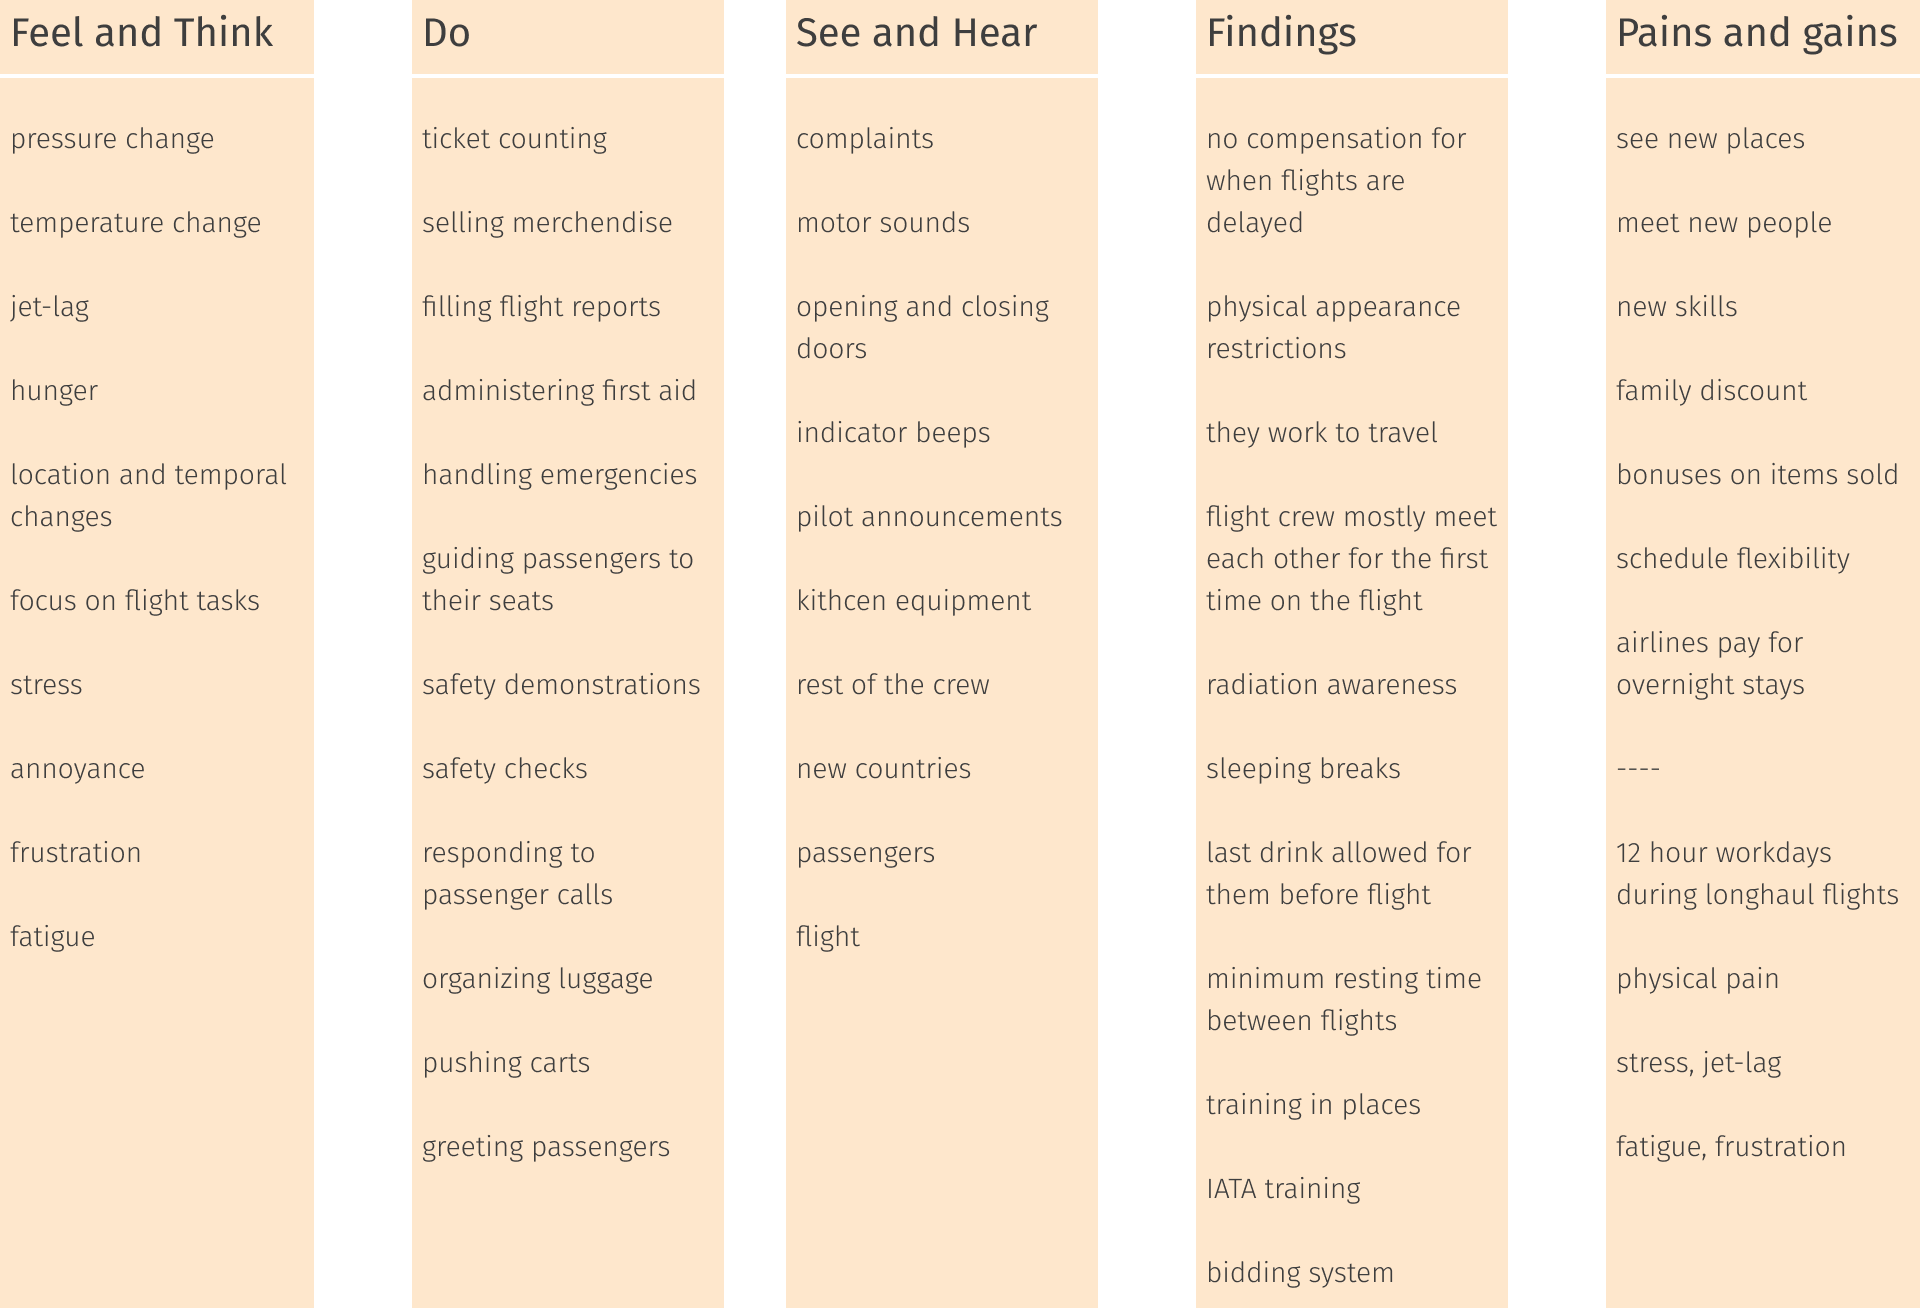
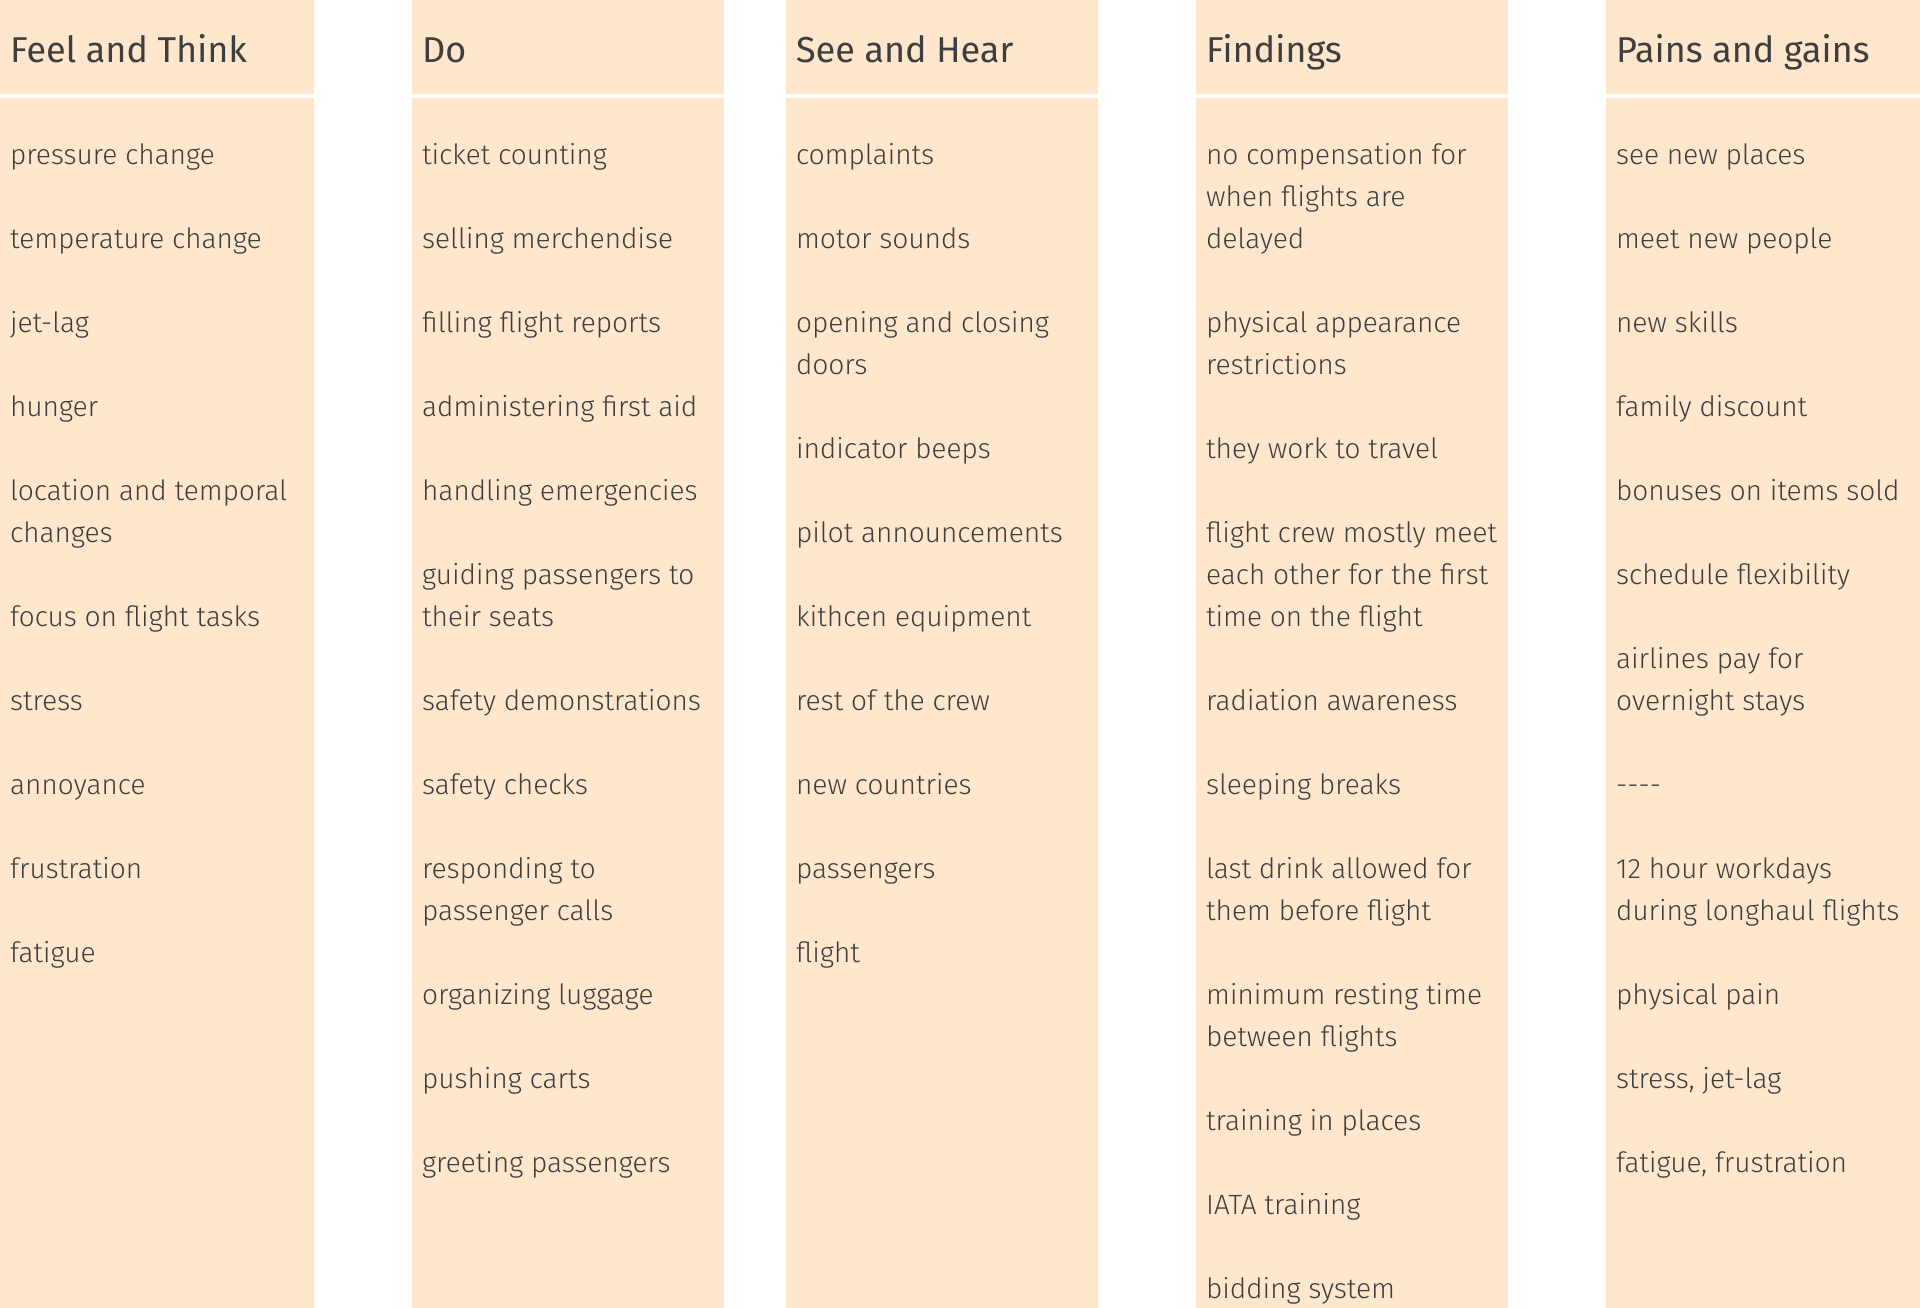
Add files via upload

diff --git a/index.html b/index.html
@@ -156,24 +156,63 @@
 				<div class="body-title">AFFINITY<br>MAPPING</div>
 				<div class="body-content">
 					<div class="body-text">To have a holistic understanding of the air crew's routine, we started by writitng and <span class="bold-text">mapping every aspect of experience</span> related to their work, based on secondary research</div>
-					<img src="assets/icrew/affinity.png" style="width: inherit; margin-top: 40px;">
+					<img src="assets/icrew/affinity.png" style="width: inherit; margin-top: 80px;">
 				</div>
 			</div>
 
-			<!---SOLUTION-->
+			<!-- Interviews -->
 			<div class="body">
 				<div class="body-title">INTERVIEWS</div>
 				<div class="body-content">
 					<div class="body-text">We conducted a few interviews with pilots and flight attendants to both validate our secondary research and to gain new informationa and insights</div>
-					<div class="body-text-2"></div>
+					<div class="column-2"><span style="font-weight: 600; font-size: 17px;">Pilot</span><br><br> - Pilots sleep during long overhaul flights<br> - Last drink policy 12h before flight<br> - Pilots/cabin crew use a “bidding system” to decide what flights they get. Bid with priority, and seniority means better flights. Every airline has a different bidding system<br> - Fatigue is a big issue<br> - Cabin crew are unlicensed, so they don’t have legal responsibilities<br> - Pilots and especially cabin crew have specific appearance/makeup codes</div>
+					<div class="column-2" style="float: right;"><span style="font-weight: 600; font-size: 17px;">Flight Assistant</span><br><br> - 24h layovers<br> - Resting time<br> - Not a lot of “free” time<br> - System for bidding<br> - Health issues related to stress<br> - Pilots and flight attendants have different rules<br> - Looking for recommendations<br> - No apps known for flight attendant</div>
+
 				</div>
 			</div>
 
+			<!-- User Journey -->
+			<div class="body">
+				<div class="body-title">USER JOURNEY</div>
+				<div class="body-content">
+					<div class="body-text">To build empathy with our users, we worked with them to understand and map out the moods and emotions they go through doing the tasks assigned to them during a flight</div>
+				</div>
+				<img src="assets/icrew/journey.png" style="width: inherit; margin-top: 60px;">
+			</div>
 
+			<!-- Pain Points -->
+			<div class="body">
+				<div class="body-title">PAIN POINTS</div>
+				<div class="body-content">
+					<div class="body-text">We listed all the pain points and categorized them based on how actionable and pressing the pain points were<br><br><span class="bold-text">To solve</span> - luggage organisation, breaks - do not disturb, serving special meals, crew requests, pilot communications<br><br><span class="bold-text">Solvable</span> - amenity kits, passenger requests, call bell<br><br><span style="opacity: 0.5; text-decoration-style: line-through;"><s><span class="bold-text">Not solvable</span> - cleaning toilets, locating seats, passenger conflicts, boarding mix-ups </span></s></div>
+				</div>
+			</div>
+
+			<!-- Final Concept -->
+			<div class="body">
+				<div class="body-title">FINAL CONCEPT</div>
+				<div class="body-content">
+					<div class="body-text"><span class="bold-text" style="font-size: 20px">Design a smartwatch application powered by data from a flight, to aid cabin crew members to serve passengers in the best way possible</span></div>
+				</div>
+			</div>
 		</div>
 
-		<div class="img-full"><img src="assets/icrew/branding.jpg"></div>
-		<!--<div class="footer">	
+		<!-- Section 4: Design -->
+		<div class="section" id="section4">
+			<div class="section-head">Design</div>
+
+			<!-- Information Architecture -->
+			<div class="body">
+				<div class="body-title">INFORMATION<br>ARCHITECTURE</div>
+				<div class="body-content">
+					<div class="body-text">This project was built as a part of an Application Design course, the brief of which was to design a travel application. After an initial brainstorming session about <span class="bold-text">technologies, contexts, users and problems</span>, we found an <span class="bold-text">untapped potential in air crew members as a user group</span> to work for, since they are one of the stakeholders in the travel industry for whom there hasn't been much development in terms of new services and products</div>
+				</div>
+			</div>
+
+		</div>	
+
+		<!--<div class="img-full"><img src="assets/icrew/branding.jpg"></div>
+		<div class="footer">	
 		</div>-->
 
 

diff --git a/style.css b/style.css
@@ -235,6 +235,7 @@ html, body {
 	font-weight: 300;
 	font-size: 16px;
 	line-height: 150%;
+	color: var(--notblack);
 }
 
 .body-content-full {
@@ -278,10 +279,17 @@ html, body {
 .body-text-2 {
 	display: inline-block;
 	float: left;
-	height: max;
 	width: 16vw;
 	text-align: left;
 	padding-top: 250px;
+}
+
+.column-2 {
+	margin-top: 40px;
+	display: inline-block;
+	float: left;
+	width: 23vw;
+	text-align: left;
 }
 
 .blocks span {
